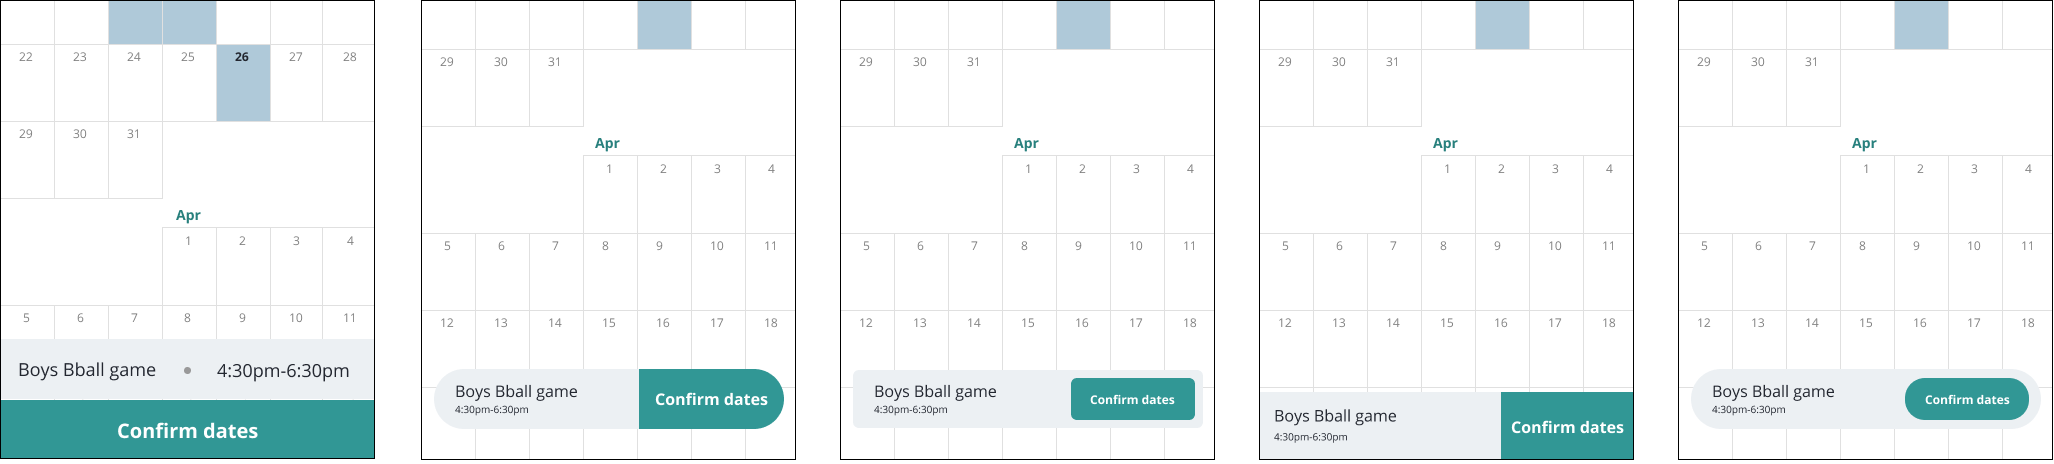
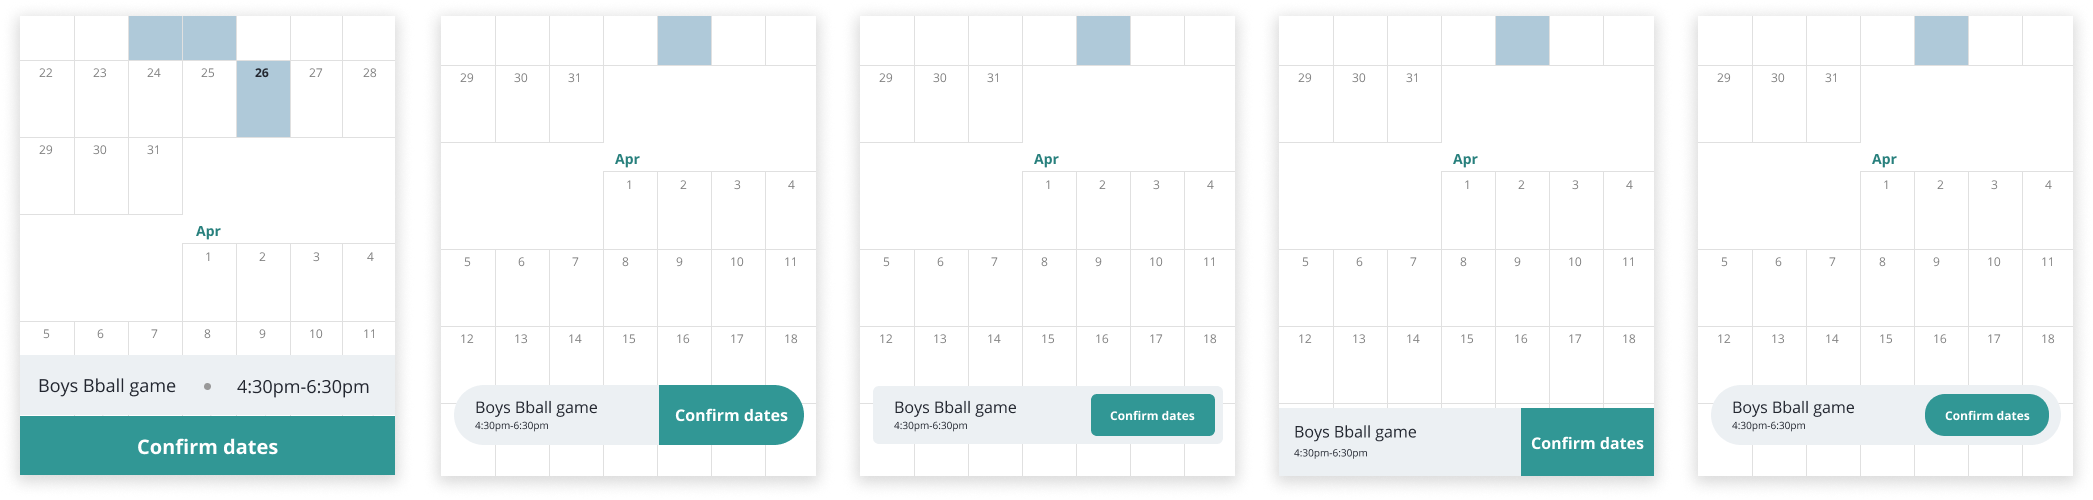
so much

diff --git a/date-picker/index.html b/date-picker/index.html
@@ -40,12 +40,16 @@
       <div class="project-intro">
         <div class="project-brief">
           <p class="timeline-bckrnd">
-            DatePicker is a
+            DatePicker is a tool that connects to Google Calendars and serves as
+            highly customizable event planner.
           </p>
           <div class="timeline">
             <span>
               <p class="timeline-head">Role</p>
-              <p>UI/UX, Wireframing, Prototyping</p>
+              <p>
+                UI/UX <br />
+                Prototyping
+              </p>
             </span>
 
             <span>
@@ -54,7 +58,10 @@
             </span>
             <span>
               <p class="timeline-head">Team</p>
-              <p>3 developers, 1 designer</p>
+              <p>
+                3 front/back end developers<br />
+                1 UX designer
+              </p>
             </span>
           </div>
         </div>
@@ -136,9 +143,20 @@
       <div class="center-text">
         <h2>Streamlining event planning</h2>
         <p class="middlepara">
-          Our
+          I gathered 7 fellow designer and held a design critique several
+          iterations of a confirmation button. To avoid bias I did not state
+          which one I preferredOption B provided the perfect balance between
+          clarity that it is a button, touch area size for easy clickability,
+          and allowing space for natural scrolling finger movement
         </p>
       </div>
+      <img class="chart2" src="/images/confirmbutton3.png" />
+      <!-- <div class="center-text">
+        <h2>Streamlining event planning</h2>
+        <p class="middlepara">
+          Our
+        </p>
+      </div> -->
       <div class="project-section">
         <div class="left-project-gif">
           <img class="phone-gif" src="/images/dateselector.gif" />
@@ -148,61 +166,27 @@
             How we can give full control over the date selection process?
           </h2>
           <p class="gif-p">
+            This is the most important feature of DatePicker. Allowing fully
+            customizable patterns of date selection solves the biggest pain
+            point when using Google Calendars.
+            <!--This could not be done from a
+            selection of pre-made patterns, for example, every MWF or every
+            other day, so a click and pick selector was implemented.-->
             The goal was to allow total control over the date selection process
             in a way that does not have have to adhere to a specific pattern of
-            days. This was done through a “click and pick” type selector. Simply
-            click the dates in any frequency or pattern to schedule an event on
-            that day.
+            days. This was done by implementing h a “click and pick” type
+            selector. Simply click the dates in any frequency or pattern to
+            schedule an event on that day.
           </p>
         </div>
-      </div>
-
-      <div class="project-section">
-        <div class="right-gif-desc">
-          <h2>Family connections</h2>
-          <p class="gif-p">
-            Potential candidates for a foster child can be located through here
-            using 5 different searching criteria. A clear button is present so
-            that a social worker can begin a new search quickly without having
-            to delete each Search results are displayed in a pop up that allows
-            for a quick return back to the search home.
-          </p>
-        </div>
-        <div class="left-project-gif">
-          <img class="phone-gif" src="/images/datemicroanimation.gif" />
-        </div>
-      </div>
-
-      <div class="project-section">
-        <div class="left-project-gif">
-          <img class="phone-gif" src="/images/datetutorial.gif" />
-        </div>
-        <div class="right-gif-desc">
-          <h2>Organizing family connections</h2>
-          <p class="gif-p">
-            Potential candidates for a foster child can be located through here
-            using 5 different searching criteria. A clear button is present so
-            that a social worker can begin a new search quickly without having
-            to delete each Search results are displayed in a pop up that allows
-            for a quick return back to the search home.
-          </p>
-        </div>
-      </div>
-
-      <div class="center-text">
-        <h2>head</h2>
-        <p class="middlepara">
-          Pros and cons of other button layouts I moved forward with the pill
-          button because ____. and with a pixel size of #x# it is plently large
-          touch size to avoid difficulity pressing.
-        </p>
       </div>
 
       <!-- <div class="center-head">Future directions</div> -->
       <div class="center-text">
         <h2>Improving interaction</h2>
         <p class="middlepara">
-          paragraph
+          Based on feedback and observations made from user testing I created a
+          few prototypes.
         </p>
       </div>
 
@@ -211,9 +195,15 @@
           <img class="phone-gif" src="/images/datemicroanimation.gif" />
         </div>
         <div class="right-gif-desc">
-          <h2>Providing action feedback</h2>
+          <h2>Providing system feedback</h2>
           <p class="gif-p">
-            Explain how this microinteraction gives a better experience.
+            After participants confirmed their event dates I realized that next
+            screen appears instantly without confirmation feedback. there was no
+            confirmation feedback.<br />
+            <br />
+            This subtle animation of the event sliding in indicates that the
+            event has successfuly been added without the need for a confirmation
+            modal.
           </p>
         </div>
       </div>
@@ -222,8 +212,9 @@
         <div class="right-gif-desc">
           <h2>Tutorial</h2>
           <p class="gif-p">
-            How some users might be unsure when first on the date selection
-            screen
+            The process for selecting dates in DatePicker may be unfamiliar to
+            some users who exclusively use Google Calendars. How some users
+            might be unsure when first on the date selection screen.
           </p>
         </div>
         <div class="left-project-gif">
@@ -242,8 +233,30 @@
           </p>
         </div>
       </div>
-    </div>
 
+      <div class="center-text">
+        <h2>Fresh paint</h2>
+        <p class="middlepara">
+          I incorporated the two primary colors of the app, along with a
+          scattered selection of date represents the purpose, function, and app
+          color palette I tried to incorporate both primary colors into the logo
+          to create a cohesive look and feel.
+        </p>
+      </div>
+
+      <img class="chart2" src="/images/iconremix.png" />
+      <div class="center-text">
+        <h2>Wrapping Up</h2>
+        <p class="middlepara">
+          Our team was able to get DatePicker into a deployable stage, but there
+          has yet to be a planned release date for it onto the app store.
+          Hopefully the next team that works on DatePicker can plan for a
+          release because due to disscussion with teachers and coaches
+          DatePicker could provide a lot of value to their event planning
+          experience.
+        </p>
+      </div>
+    </div>
     <div class="extra-work">
       <h2 class="explore">Explore Other Work</h2>
       <div class="more-work">

diff --git a/css/casestudy.css b/css/casestudy.css
@@ -6,7 +6,7 @@ h1 {
 }
 
 h2 {
-  font-size: 1.9em;
+  font-size: 1.8em;
 
   color: #1a1a1a;
   font-weight: 500;
